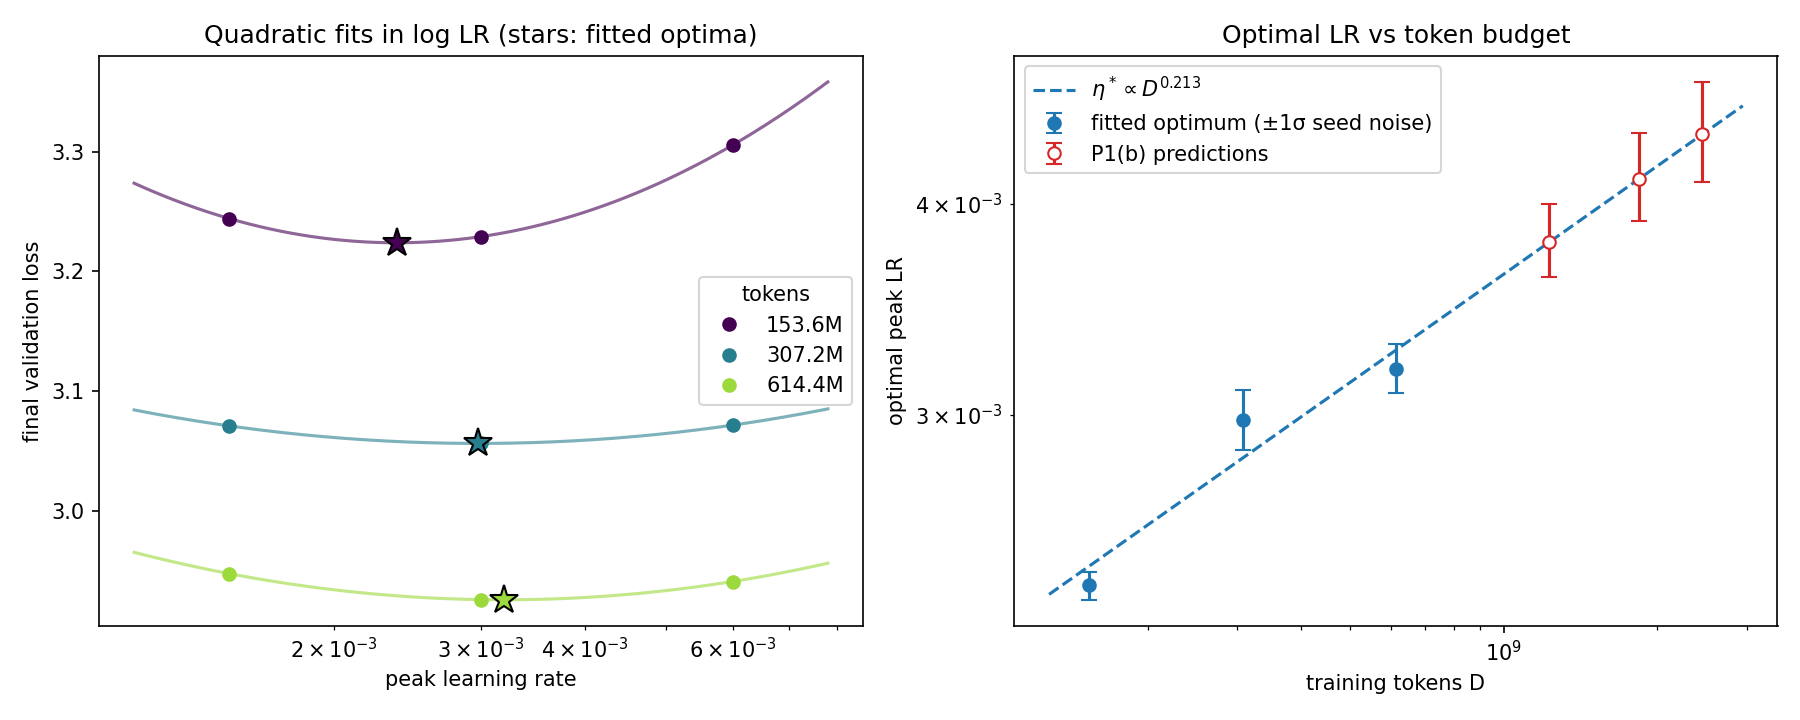
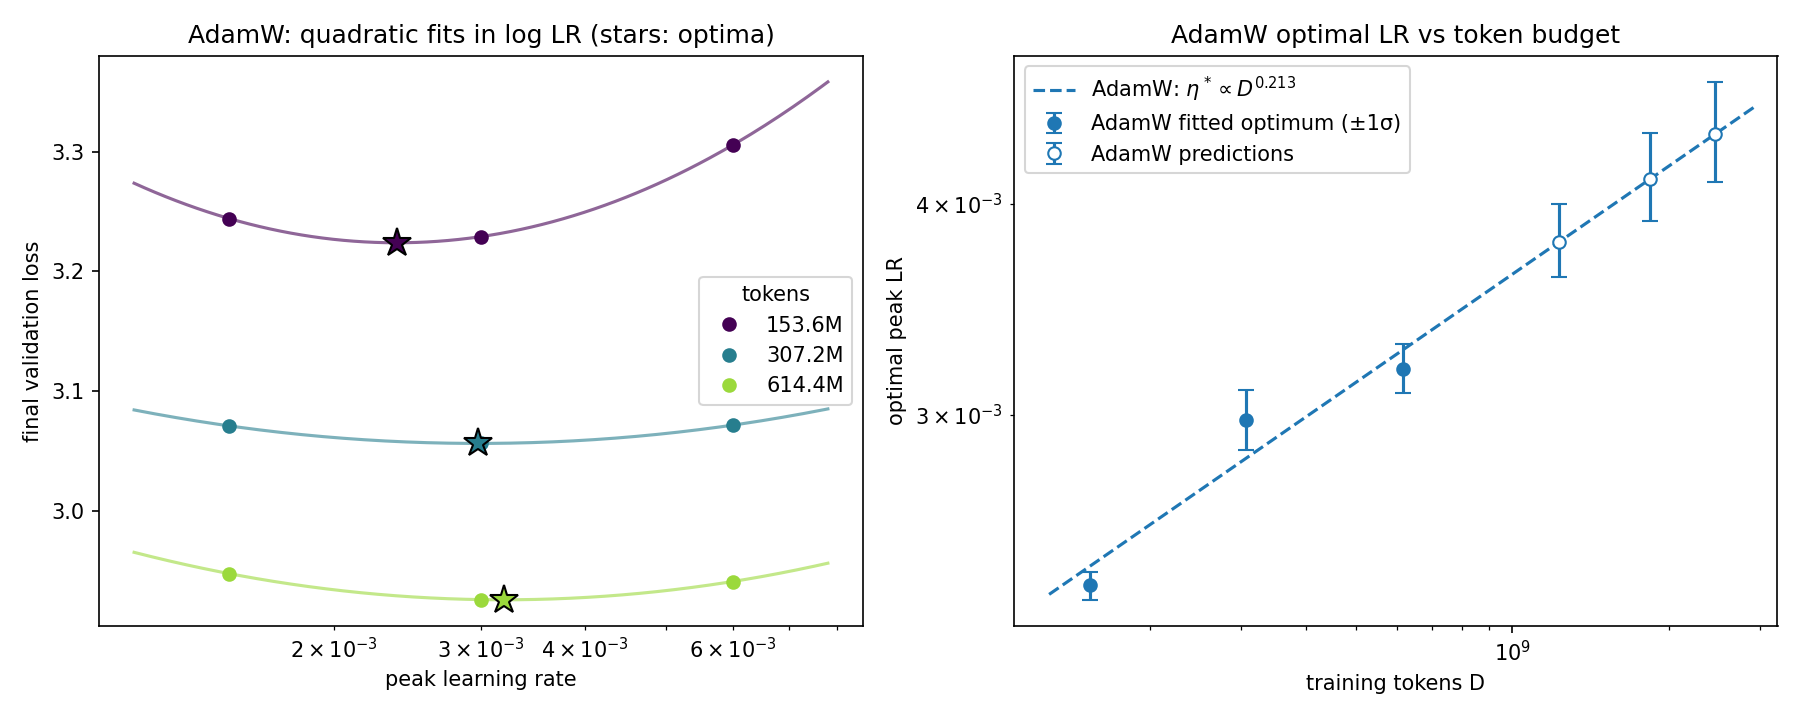
Add A2 Problem 1 write-up with AdamW and Hyperball source fits

diff --git a/scripts/a2_p1_lr_scaling.py b/scripts/a2_p1_lr_scaling.py
@@ -1,6 +1,6 @@
-"""A2 P1: per-budget optimal AdamW LR from quadratic fits, and a power law in tokens."""
-import argparse
+"""A2 P1: per-budget optimal LR from local quadratic fits, and power laws in tokens."""
 from collections import defaultdict
+from dataclasses import dataclass
 from pathlib import Path
 
 import matplotlib
@@ -15,8 +15,9 @@ from experiments.a2.provided_sweeps import load
 OUTPUT_DIR = Path(__file__).parents[1] / "notes" / "a2" / "p1"
 # Seed-to-seed SD of final val loss at the default recipe, measured in A1 P3.
 SEED_NOISE_SD = 0.0024
-PREDICTION_TOKENS = (1.2288e9, 1.8432e9, 2.4576e9)
 NUM_NOISE_DRAWS = 4000
+ADAMW_PREDICTION_TOKENS = (1.2288e9, 1.8432e9, 2.4576e9)
+HYPERBALL_PREDICTION_TOKENS = (1.2288e9,)
 
 
 def points_by_budget(rows):
@@ -24,6 +25,13 @@ def points_by_budget(rows):
     for row in rows:
         groups[row["tokens"]].append((row["learning_rate"], row["final_val_loss"]))
     return {tokens: np.array(sorted(points)) for tokens, points in sorted(groups.items())}
+
+
+def fit_window(points):
+    """The lowest measured loss and its two neighbors in LR."""
+    best = int(points[:, 1].argmin())
+    start = min(max(best - 1, 0), len(points) - 3)
+    return points[start:start + 3]
 
 
 def quadratic_optimum(lrs, losses):
@@ -41,89 +49,135 @@ def fit_power_law(tokens, optimal_lrs):
     return exponent, np.exp(log_coefficient)
 
 
-def noise_draws(budgets, rng):
-    """Refit optima and the power law after adding seed-level noise to every loss."""
+@dataclass
+class LRScalingFit:
+    label: str
+    budgets: dict
+    windows: dict
+    optima: list
+    exponent: float
+    coefficient: float
+    prediction_tokens: tuple
+    optima_draws: np.ndarray
+    exponent_draws: np.ndarray
+    prediction_draws: np.ndarray
+
+    @property
+    def tokens(self):
+        return np.array(list(self.budgets))
+
+    @property
+    def lr_stars(self):
+        return np.array([optimum[0] for optimum in self.optima])
+
+    def predict(self, tokens):
+        return self.coefficient * np.asarray(tokens, dtype=float) ** self.exponent
+
+
+def fit_scaling(label, rows, prediction_tokens, rng):
+    budgets = points_by_budget(rows)
+    windows = {tokens: fit_window(points) for tokens, points in budgets.items()}
+    optima = [quadratic_optimum(w[:, 0], w[:, 1]) for w in windows.values()]
     tokens = np.array(list(budgets))
-    optima, exponents, predictions = [], [], []
+    exponent, coefficient = fit_power_law(tokens, [optimum[0] for optimum in optima])
+
+    optima_draws, exponent_draws, prediction_draws = [], [], []
     for _ in range(NUM_NOISE_DRAWS):
         draw = [
-            quadratic_optimum(p[:, 0], p[:, 1] + rng.normal(0, SEED_NOISE_SD, len(p)))[0]
-            for p in budgets.values()
+            quadratic_optimum(w[:, 0], w[:, 1] + rng.normal(0, SEED_NOISE_SD, len(w)))[0]
+            for w in windows.values()
         ]
         if not np.all(np.isfinite(draw)):
             continue
-        exponent, coefficient = fit_power_law(tokens, draw)
-        optima.append(draw)
-        exponents.append(exponent)
-        predictions.append(coefficient * np.array(PREDICTION_TOKENS) ** exponent)
-    return np.array(optima), np.array(exponents), np.array(predictions)
+        draw_exponent, draw_coefficient = fit_power_law(tokens, draw)
+        optima_draws.append(draw)
+        exponent_draws.append(draw_exponent)
+        prediction_draws.append(draw_coefficient * np.array(prediction_tokens) ** draw_exponent)
+    return LRScalingFit(label, budgets, windows, optima, exponent, coefficient, prediction_tokens,
+                        np.array(optima_draws), np.array(exponent_draws), np.array(prediction_draws))
 
 
-def plot(budgets, fits, exponent, coefficient, optima_draws, predictions, path):
-    fig, (left, right) = plt.subplots(1, 2, figsize=(12, 4.8))
-    colors = plt.cm.viridis(np.linspace(0, 0.85, len(budgets)))
-    for color, (tokens, points), (lr_star, loss_star, coeffs) in zip(colors, budgets.items(), fits):
-        label = f"{tokens / 1e6:g}M"
-        grid = np.geomspace(points[:, 0].min() / 1.3, points[:, 0].max() * 1.3, 200)
-        left.plot(points[:, 0], points[:, 1], "o", color=color, label=label)
-        left.plot(grid, np.polyval(coeffs, np.log2(grid)), "-", color=color, alpha=0.6)
-        left.plot(lr_star, loss_star, "*", color=color, markersize=14, markeredgecolor="k")
-    left.set_xscale("log")
-    left.set_xlabel("peak learning rate")
-    left.set_ylabel("final validation loss")
-    left.set_title("Quadratic fits in log LR (stars: fitted optima)")
-    left.legend(title="tokens")
+def report(fit):
+    print(f"== {fit.label} ==")
+    print("tokens      fit window LRs           lr*        ±1σ (seed noise)       loss at lr*")
+    low, high = np.percentile(fit.optima_draws, [16, 84], axis=0)
+    for (t, window), (lr_star, loss_star, _), lo, hi in zip(fit.windows.items(), fit.optima, low, high):
+        lrs = ", ".join(f"{lr:g}" for lr in window[:, 0])
+        print(f"{t / 1e6:8.1f}M  {lrs:22s}  {lr_star:.5f}    [{lo:.5f}, {hi:.5f}]   {loss_star:.4f}")
+    e_lo, e_hi = np.percentile(fit.exponent_draws, [16, 84])
+    print(f"power law: lr* = {fit.coefficient:.4g} * D^{fit.exponent:.4f}   "
+          f"exponent ±1σ [{e_lo:.3f}, {e_hi:.3f}]   per doubling x{2**fit.exponent:.3f}")
+    pred_low, pred_high = np.percentile(fit.prediction_draws, [16, 84], axis=0)
+    for t, predicted, lo, hi in zip(fit.prediction_tokens, fit.predict(fit.prediction_tokens), pred_low, pred_high):
+        print(f"prediction {t / 1e9:.4f}B  lr* = {predicted:.5f}   ±1σ [{lo:.5f}, {hi:.5f}]")
+    print()
 
-    tokens = np.array(list(budgets))
-    lr_stars = np.array([fit[0] for fit in fits])
-    low, high = np.percentile(optima_draws, [16, 84], axis=0)
-    right.errorbar(tokens, lr_stars, yerr=[lr_stars - low, high - lr_stars], fmt="o",
-                   color="C0", capsize=4, label="fitted optimum (±1σ seed noise)")
-    line = np.geomspace(tokens.min() / 1.2, max(PREDICTION_TOKENS) * 1.2, 100)
-    right.plot(line, coefficient * line**exponent, "--", color="C0",
-               label=rf"$\eta^* \propto D^{{{exponent:.3f}}}$")
-    predicted = coefficient * np.array(PREDICTION_TOKENS) ** exponent
-    pred_low, pred_high = np.percentile(predictions, [16, 84], axis=0)
-    right.errorbar(PREDICTION_TOKENS, predicted, yerr=[predicted - pred_low, pred_high - predicted],
-                   fmt="o", mfc="white", color="C3", capsize=4, label="P1(b) predictions")
-    right.set_xscale("log")
-    right.set_yscale("log")
-    right.set_xlabel("training tokens D")
-    right.set_ylabel("optimal peak LR")
-    right.set_title("Optimal LR vs token budget")
-    right.legend()
+
+def plot_curves(ax, fit):
+    colors = plt.cm.viridis(np.linspace(0, 0.85, len(fit.budgets)))
+    for color, (tokens, points), window, (lr_star, loss_star, coeffs) in zip(
+        colors, fit.budgets.items(), fit.windows.values(), fit.optima
+    ):
+        grid = np.geomspace(window[:, 0].min() / 1.3, window[:, 0].max() * 1.3, 200)
+        ax.plot(points[:, 0], points[:, 1], "o", color=color, label=f"{tokens / 1e6:g}M")
+        ax.plot(grid, np.polyval(coeffs, np.log2(grid)), "-", color=color, alpha=0.6)
+        ax.plot(lr_star, loss_star, "*", color=color, markersize=14, markeredgecolor="k")
+    ax.set_xscale("log")
+    ax.set_xlabel("peak learning rate")
+    ax.set_ylabel("final validation loss")
+    ax.set_title(f"{fit.label}: quadratic fits in log LR (stars: optima)")
+    ax.legend(title="tokens")
+
+
+def plot_optima(ax, fit, color, x_max, show_predictions=True):
+    low, high = np.percentile(fit.optima_draws, [16, 84], axis=0)
+    lr_stars = fit.lr_stars
+    ax.errorbar(fit.tokens, lr_stars, yerr=[lr_stars - low, high - lr_stars], fmt="o",
+                color=color, capsize=4, label=f"{fit.label} fitted optimum (±1σ)")
+    line = np.geomspace(fit.tokens.min() / 1.2, x_max, 100)
+    ax.plot(line, fit.predict(line), "--", color=color,
+            label=rf"{fit.label}: $\eta^* \propto D^{{{fit.exponent:.3f}}}$")
+    if show_predictions:
+        predicted = fit.predict(fit.prediction_tokens)
+        pred_low, pred_high = np.percentile(fit.prediction_draws, [16, 84], axis=0)
+        ax.errorbar(fit.prediction_tokens, predicted, yerr=[predicted - pred_low, pred_high - predicted],
+                    fmt="o", mfc="white", color=color, capsize=4, label=f"{fit.label} predictions")
+    ax.set_xscale("log")
+    ax.set_yscale("log")
+    ax.set_xlim(fit.tokens.min() / 1.4, x_max * 1.1)
+    ax.set_xlabel("training tokens D")
+    ax.set_ylabel("optimal peak LR")
+
+
+def save(fig, name):
     fig.tight_layout()
-    path.parent.mkdir(parents=True, exist_ok=True)
+    OUTPUT_DIR.mkdir(parents=True, exist_ok=True)
+    path = OUTPUT_DIR / name
     fig.savefig(path, dpi=150)
+    print(f"saved {path}")
 
 
-def main(argv=None):
-    parser = argparse.ArgumentParser(description=__doc__)
-    parser.add_argument("--part", default="P1a", choices=("P1a",))
-    args = parser.parse_args(argv)
+def main():
+    rng = np.random.default_rng(0)
+    adamw = fit_scaling("AdamW", load("P1a"), ADAMW_PREDICTION_TOKENS, rng)
+    hyperball = fit_scaling("Hyperball", load("P1d"), HYPERBALL_PREDICTION_TOKENS, rng)
+    report(adamw)
+    report(hyperball)
 
-    budgets = points_by_budget(load(args.part))
-    fits = [quadratic_optimum(p[:, 0], p[:, 1]) for p in budgets.values()]
-    tokens = np.array(list(budgets))
-    lr_stars = np.array([fit[0] for fit in fits])
-    exponent, coefficient = fit_power_law(tokens, lr_stars)
-    optima_draws, exponent_draws, predictions = noise_draws(budgets, np.random.default_rng(0))
+    fig, (left, right) = plt.subplots(1, 2, figsize=(12, 4.8))
+    plot_curves(left, adamw)
+    plot_optima(right, adamw, "C0", max(ADAMW_PREDICTION_TOKENS) * 1.2)
+    right.set_title("AdamW optimal LR vs token budget")
+    right.legend()
+    save(fig, "p1a_lr_scaling.png")
 
-    print("tokens      fitted lr*   ±1σ (seed noise)       loss at lr*   curvature a")
-    low, high = np.percentile(optima_draws, [16, 84], axis=0)
-    for t, (lr_star, loss_star, (a, _, _)), lo, hi in zip(tokens, fits, low, high):
-        print(f"{t / 1e6:8.1f}M  {lr_star:.5f}     [{lo:.5f}, {hi:.5f}]   {loss_star:.4f}        {a:.4f}")
-    e_lo, e_hi = np.percentile(exponent_draws, [16, 84])
-    print(f"\npower law: lr* = {coefficient:.4g} * D^{exponent:.4f}   exponent ±1σ [{e_lo:.3f}, {e_hi:.3f}]")
-    print("doubling D multiplies lr* by", f"{2**exponent:.3f}")
-    pred_low, pred_high = np.percentile(predictions, [16, 84], axis=0)
-    print("\nP1(b) predictions from this rule:")
-    for t, lo, hi in zip(PREDICTION_TOKENS, pred_low, pred_high):
-        print(f"{t / 1e9:.4f}B  lr* = {coefficient * t**exponent:.5f}   ±1σ [{lo:.5f}, {hi:.5f}]")
-
-    path = OUTPUT_DIR / "p1a_lr_scaling.png"
-    plot(budgets, fits, exponent, coefficient, optima_draws, predictions, path)
-    print(f"\nsaved {path}")
+    fig, (left, right) = plt.subplots(1, 2, figsize=(12, 4.8))
+    plot_curves(left, hyperball)
+    plot_optima(right, hyperball, "C3", max(HYPERBALL_PREDICTION_TOKENS) * 1.2)
+    plot_optima(right, adamw, "C0", max(HYPERBALL_PREDICTION_TOKENS) * 1.2, show_predictions=False)
+    right.set_title("Optimal LR vs token budget")
+    right.legend(fontsize=8)
+    save(fig, "p1d_hyperball_vs_adamw.png")
 
 
 if __name__ == "__main__":

diff --git a/notes/a2/p1/p1_learning_rate_scaling.md b/notes/a2/p1/p1_learning_rate_scaling.md
@@ -1,0 +1,87 @@
+# Problem 1: Learning-rate scaling with the token budget
+
+All runs use the d8 model and the default recipe: AdamW $(0.9, 0.95)$, weight decay 0.1, batch size 64, 1% warmup, linear decay, and seed 42. Only the peak learning rate $\eta$ and the token budget $D$ change.
+
+**Method.** At each budget, I fit a parabola in $\log_2 \eta$ through the lowest measured loss and its two neighbors. The vertex is the fitted optimum $\eta^*$. A scaling rule is a power law $\eta^* = c\,D^{\alpha}$, fit by least squares in log–log space. Uncertainties are $\pm1\sigma$ from 4,000 refits. Each refit adds Gaussian noise with SD 0.0024 to every loss, which is the seed-to-seed SD of the default recipe measured in A1 Problem 3.
+
+## (a) Learn from small training budgets
+
+Final validation losses from the supplied runs:
+
+| Tokens | $\eta$ = 0.0015 | $\eta$ = 0.003 | $\eta$ = 0.006 | Fitted $\eta^*$ ($\pm1\sigma$) | Loss at $\eta^*$ |
+| --- | ---: | ---: | ---: | --- | ---: |
+| 153.6M | 3.2442 | **3.2291** | 3.3056 | 0.00238 (0.00233–0.00242) | 3.2240 |
+| 307.2M | 3.0709 | **3.0562** | 3.0715 | 0.00298 (0.00286–0.00310) | 3.0562 |
+| 614.4M | 2.9473 | **2.9256** | 2.9408 | 0.00319 (0.00309–0.00330) | 2.9255 |
+
+The proposed rule is
+
+$$\eta^*(D) = 4.44\times10^{-5}\, D^{0.213},$$
+
+with exponent $\pm1\sigma$ range 0.19–0.24. Each doubling of the budget multiplies the optimal LR by 1.16.
+
+![AdamW loss–LR fits and the optimal LR vs token budget](p1a_lr_scaling.png)
+
+The optimal LR **increases** with the token budget. This contradicts both the idea that it stays fixed and the convex-optimization intuition that it should shrink like $1/\sqrt{T}$ or $1/T$.
+
+The increase is slowing. The optimum rises 25% from 153.6M to 307.2M tokens, but only 7% from 307.2M to 614.4M. The middle point sits above the fitted line and the last one below it. The bend is about $1.7\sigma$ of the seed-noise uncertainty, and 95% of the noisy refits still show the increase slowing. It is suggestive but not conclusive.
+
+The loss curve also flattens as the budget grows. Missing the optimum by a factor of 2 costs 0.046 in loss at 153.6M tokens, but only 0.015–0.018 at 307.2M and 614.4M.
+
+## (b) Predict before increasing the budget
+
+These predictions come from the rule in (a). They were recorded before loading the P1(b) measurements.
+
+| Tokens | Predicted $\eta^*$ ($\pm1\sigma$) |
+| --- | --- |
+| 1.2288B | 0.00380 (0.00362–0.00400) |
+| 1.8432B | 0.00414 (0.00390–0.00441) |
+| 2.4576B | 0.00440 (0.00412–0.00472) |
+
+If the slowdown seen in (a) continues, these are overestimates.
+
+> **TODO:** fit the P1(b) loss–LR curves, compare the fitted optima with these predictions, and say whether the small-budget trend continues.
+
+## (c) Compare and test two scaling rules
+
+> **TODO:** fit a power law over all six source budgets and another over only 1.2288B–2.4576B tokens. Predict $\eta^*$ at 4.9152B from each. Then train at both predicted LRs and at 0.0015, 0.003, and 0.006 (5 new runs). Report each prediction's loss gap to the best sampled LR, and discuss the bias–variance tradeoff and extrapolation distance.
+
+## (d) Hyperball versus AdamW
+
+Hyperball uses no weight decay. Embeddings, norms, and biases use Adam at $0.1041\,\eta$. The supplied sweep has eight LRs from 0.0003 to 0.03 at each of the three budgets in (a). The loss rises steeply below the optimum and is flat near it, so only the three points around the minimum are fit. A single parabola through all eight points misses individual losses by up to 0.054.
+
+| Tokens | Fit LRs | Fitted $\eta^*$ ($\pm1\sigma$) | Hyperball loss at $\eta^*$ | AdamW loss at $\eta^*$ |
+| --- | --- | --- | ---: | ---: |
+| 153.6M | 0.01, 0.015, 0.03 | 0.0137 (0.0131–0.0142) | 3.2033 | 3.2240 |
+| 307.2M | 0.01, 0.015, 0.03 | 0.0129 (0.0124–0.0134) | 3.0294 | 3.0562 |
+| 614.4M | 0.006, 0.01, 0.015 | 0.0121 (0.0115–0.0130) | 2.9151 | 2.9255 |
+
+The Hyperball rule is
+
+$$\eta^*_{\text{Hyperball}}(D) = 0.0732\, D^{-0.089},$$
+
+with exponent $\pm1\sigma$ range −0.13 to −0.02. Each doubling of the budget multiplies the optimal LR by 0.94.
+
+![Hyperball loss–LR fits, and Hyperball vs AdamW optimal LR](p1d_hyperball_vs_adamw.png)
+
+Hyperball's optimal LR moves in the opposite direction from AdamW's: it falls slowly with the budget.
+
+It is also more regular. The two doublings multiply the Hyperball optimum by 0.944 and 0.937, while AdamW's change by 1.25 and 1.07.
+
+Hyperball is 0.010–0.027 lower in loss than AdamW at its own optimum at every budget.
+
+**Uncertainty.** The sign of the Hyperball exponent is fairly secure, but its size is not. Near the optimum the Hyperball curve is flat: at 614.4M tokens, LRs 0.01 and 0.015 differ by only 0.0007 in loss. As a result, seed-level noise moves each optimum by about $\pm$4–6%. The choice of fit window matters too: using four points (0.006–0.03) gives exponent −0.134 instead of −0.089.
+
+With only three budgets spanning a factor of 4, a 2× extrapolation is reasonably constrained. A larger one is not.
+
+**Prediction at 1.2288B tokens:** $\eta^* = 0.0114$ ($\pm1\sigma$ 0.0106–0.0126). The four-point fit gives 0.0105.
+
+> **TODO:** train the predicted LR and three nearby LRs at 1.2288B tokens (up to 4 new runs). Compare the prediction with the best sampled target loss, and say whether the optimum varies more regularly with budget than AdamW's.
+
+## (e) Schedule variants (optional)
+
+> **TODO (optional):** repeat the analysis for cosine AdamW using the supplied P1e runs, and test whether the optimal LR transfers directly between schedules.
+
+## Synthesis
+
+> **TODO:** write after (b)–(d) are complete.
